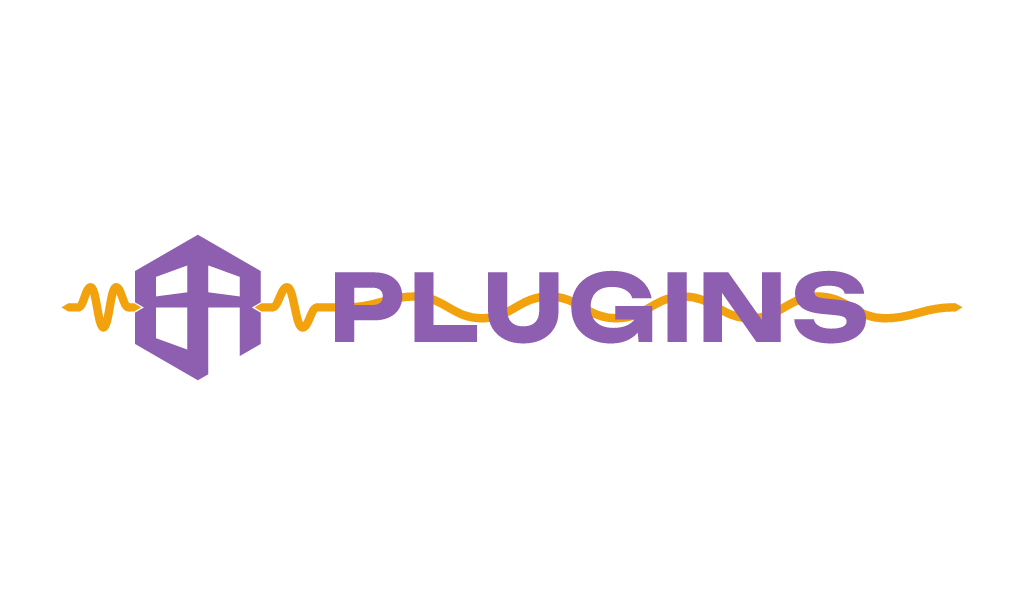
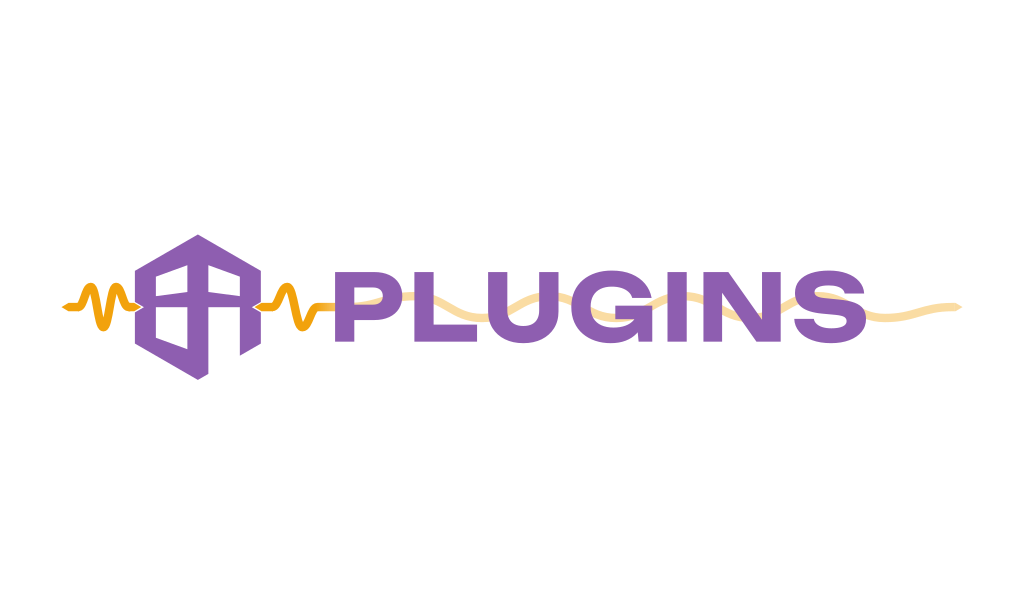
Plugins marks: the quiet line. The amber wave drops to 38 percent behind PLUGINS so the violet reads (1.7.2)

diff --git a/tools/plugins-quiet-line.py b/tools/plugins-quiet-line.py
@@ -1,0 +1,32 @@
+#!/usr/bin/env python3
+"""The plugins marks' quiet line (James, 24 Nov 2026): the amber wave keeps full strength at the sign and drops
+to 38 percent where it runs behind PLUGINS, so the violet letters read. Rewrites marks/plugins/full.svg,
+logotype.svg and card.svg in place (idempotent) and re-exports their PNGs at 1024 px wide with rsvg-convert;
+run `npm run images` afterwards for the .min and .webp siblings. icon.svg has no word and is untouched.
+
+    python3 tools/plugins-quiet-line.py
+"""
+import pathlib, re, subprocess
+
+ROOT = pathlib.Path(__file__).resolve().parent.parent / "marks" / "plugins"
+AMBER, QUIET = "#F2A20C", "0.38"
+# file: (x where the sign-side squiggle lands on the centre line, x where the end arrow starts)
+MARKS = {"full.svg": (610, 2128), "card.svg": (610, 2128), "logotype.svg": (150, 1668)}
+
+for name, (x0, x1) in MARKS.items():
+    f = ROOT / name; s = f.read_text()
+    if "plg-fade" not in s:
+        wave = re.search(r'<path d="(M\d+ \d+C[^"]*?H\d+C[^"]*?)L%d (\d+)" stroke="%s" stroke-width="20" stroke-linejoin="round"/>' % (x1 + 2, AMBER), s)
+        arrow = re.search(r'<path d="M%d [^"]+Z" fill="%s"/>' % (x1, AMBER), s)
+        assert wave and arrow, name
+        grad = (f'<defs><linearGradient id="plg-fade" gradientUnits="userSpaceOnUse" x1="{x0 - 4}" y1="0" x2="{x0 + 80}" y2="0">'
+                f'<stop stop-color="{AMBER}"/><stop offset="1" stop-color="{AMBER}" stop-opacity="{QUIET}"/></linearGradient></defs>')
+        # the wave stops where the arrow starts, so the two translucent shapes never overlap
+        new_wave = f'<path d="{wave.group(1)}L{x1} {wave.group(2)}" stroke="url(#plg-fade)" stroke-width="20" stroke-linejoin="round"/>'
+        new_arrow = arrow.group(0).replace("/>", f' fill-opacity="{QUIET}"/>')
+        s = s.replace(wave.group(0), new_wave).replace(arrow.group(0), new_arrow)
+        i = s.index(">", s.index("<svg")) + 1
+        s = s[:i] + "\n" + grad + s[i:]
+        f.write_text(s)
+    subprocess.run(["rsvg-convert", "-w", "1024", str(f), "-o", str(f.with_suffix(".png"))], check=True)
+    print(name, "ok")

diff --git a/CHANGELOG.md b/CHANGELOG.md
@@ -1,5 +1,9 @@
 # @boxofrules/assets changelog
 
+## 1.7.2 (24 Nov 2026)
+
+- **The plugins marks' quiet line** (James, 24 Nov: the line was so strong it made the violet hard to read). In `marks/plugins/full.svg`, `logotype.svg` and `card.svg` the amber wave keeps full strength at the sign and fades to 38 percent where it runs behind PLUGINS. Transparency, not a darker amber, so the same file works on dark and light. The violet, the letterforms, the sign and the wave's shape are unchanged; `icon.svg` has no word and is untouched, so the favicons are too. PNG, `.min` and `.webp` siblings re-exported. `tools/plugins-quiet-line.py` applies it (idempotent). The Figma mirror still shows the old line until `npm run figma` is run.
+
 ## 1.7.1 (22 Nov 2026)
 
 - **The Figma mirror.** The Figma file [Assets](https://www.figma.com/design/E0FMgNIR0QTJUvx52pKYtS/Assets) carries the kit as a second access point: `css/tokens.css` as 27 variables in a *Box Of Rules* collection (colours, font families, max width; aliases kept, CSS names as code syntax, the stylesheet's comments as descriptions), a Typography page from the manifest, and all 43 marks as editable vectors, one frame per product, each card named by its repo path with its use and never. `tools/figma-sync.mjs` builds it (`build`, `upload`, `record`, `check`); `figma.json` records the file and what it last received. The repo stays the source.
